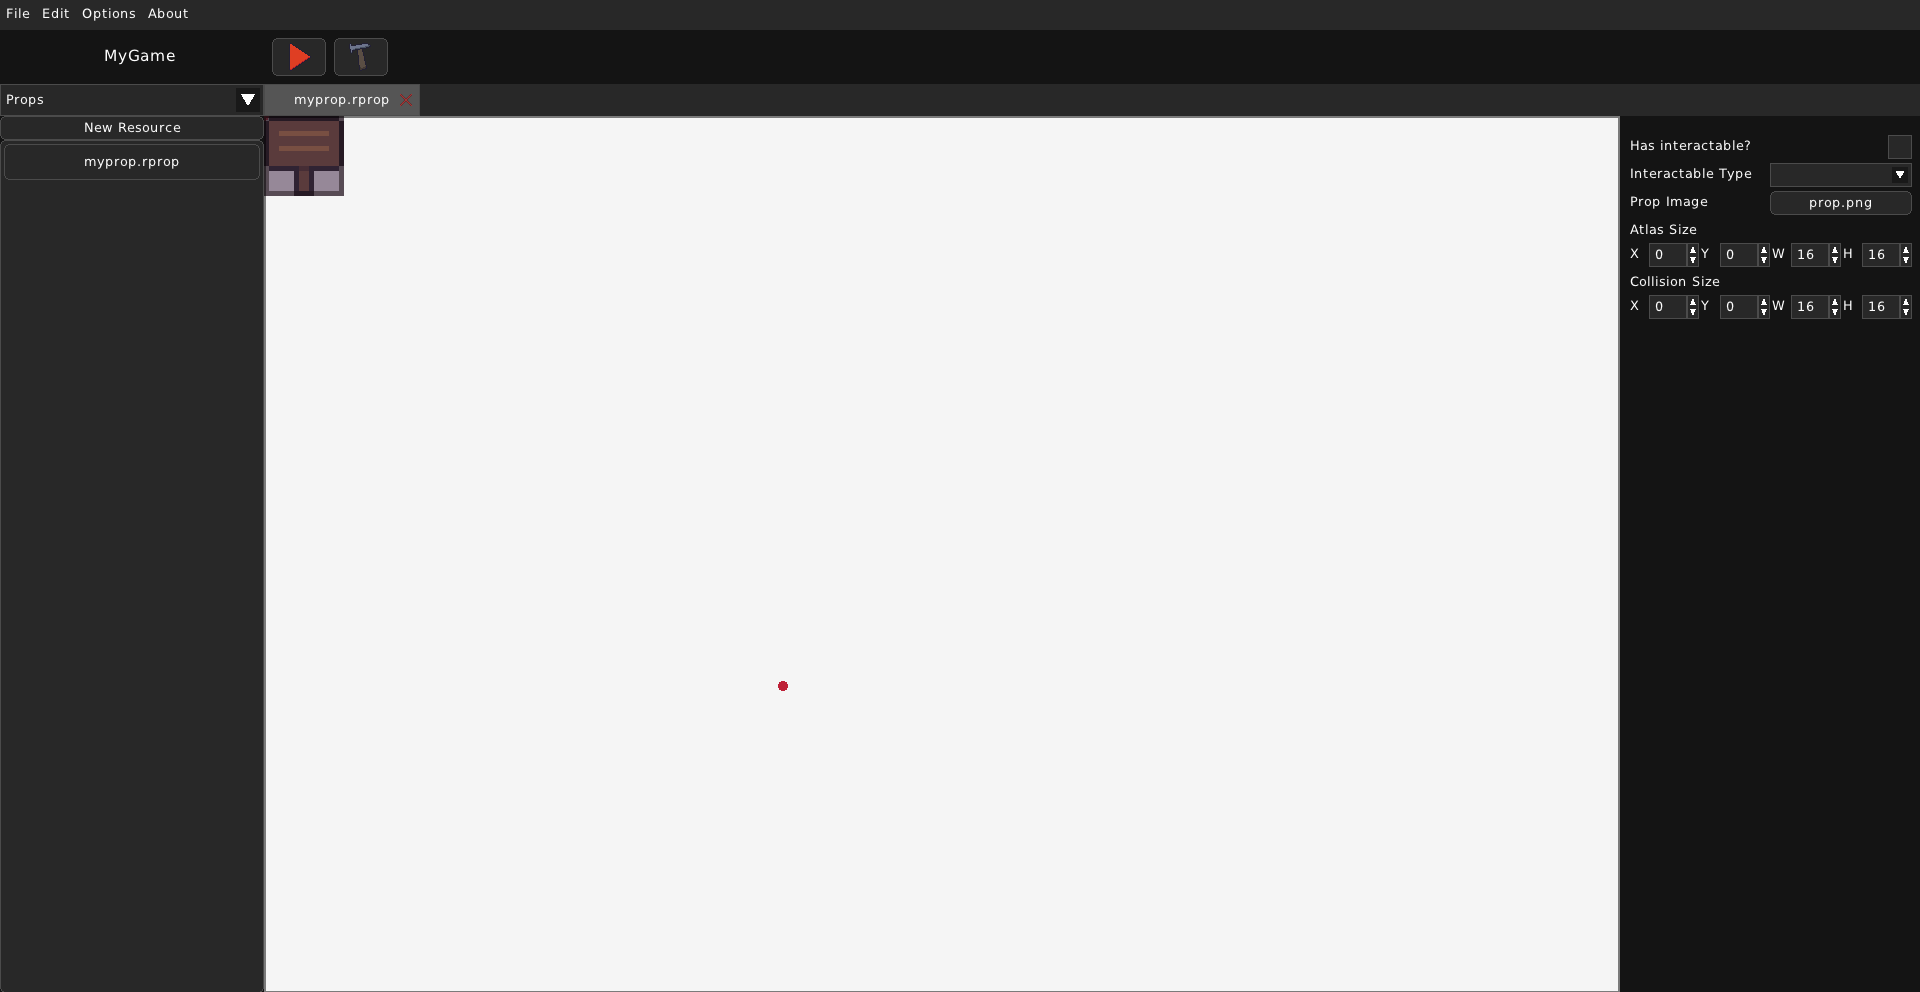
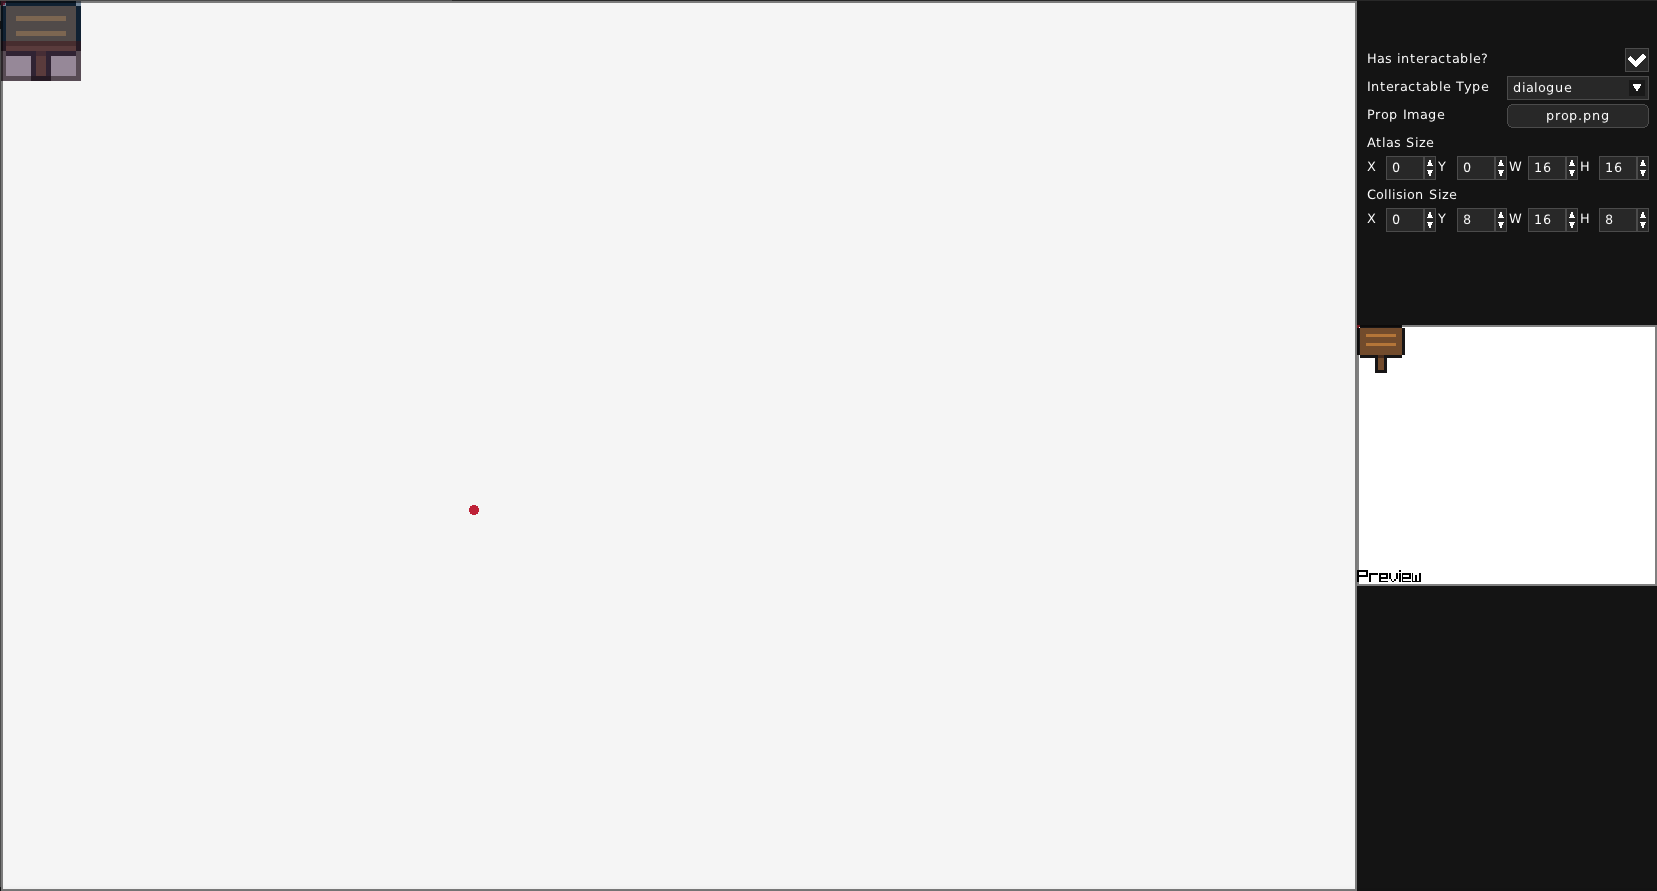
Reflect new changes in documentation + new keys in translation

Changed region(s): [[0.0, 0.0, 1.0, 1.0], [0.9849, 0.0606, 1.0, 0.1212]]

diff --git a/src/editor/childWindows/projectSettingsPanel/project.cpp b/src/editor/childWindows/projectSettingsPanel/project.cpp
@@ -12,7 +12,7 @@
 #include "widgets/propertyFields/textField.hpp"
 
 ProjectSettingsPanelProgram::ProjectSettingsPanelProgram(tgui::TabContainer::Ptr tabContainer)
-	: SettingsPanelBase(tabContainer, "screen.project_options.program._label") {
+	: SettingsPanelBase(tabContainer, "dialog.project_settings.program._label") {
 	const tgui::ScrollablePanel::Ptr scrollPanel = tgui::ScrollablePanel::create();
 	scrollPanel->setSize("100%", "100%");
 	scrollPanel->getRenderer()->setPadding(4);
@@ -24,7 +24,7 @@ ProjectSettingsPanelProgram::ProjectSettingsPanelProgram(tgui::TabContainer::Ptr
 	layout->getRenderer()->setSpaceBetweenWidgets(10.0f);
 
 	titleField = TextField::create();
-	bindTranslation(titleField->label, "dialog.project_settings.title", &tgui::Label::setText);
+	bindTranslation(titleField->label, "dialog.project_settings.program.title", &tgui::Label::setText);
 	titleField->setSize({"100%", 24});
 	titleField->value->onTextChange([](const tgui::String &text) {
 		Project *project = Editor::instance->getProject();
@@ -36,7 +36,7 @@ ProjectSettingsPanelProgram::ProjectSettingsPanelProgram(tgui::TabContainer::Ptr
 	programIcon = FileField::create();
 	programIcon->setSize({"100%", 24});
 	programIcon->pathFilters = {{"Image", {"*.png", "*.jpg"}}};
-	bindTranslation(programIcon->label, "dialog.project_settings.program_icon", &tgui::Label::setText);
+	bindTranslation(programIcon->label, "dialog.project_settings.program.program_icon", &tgui::Label::setText);
 	programIcon->callback = [](const tgui::String &path) {
 		Project *project = Editor::instance->getProject();
 		if (project != nullptr) {
@@ -47,7 +47,7 @@ ProjectSettingsPanelProgram::ProjectSettingsPanelProgram(tgui::TabContainer::Ptr
 
 	windowSizeX = IntField::create();
 	windowSizeX->setSize({"100%", 24});
-	bindTranslation(windowSizeX->label, "dialog.project_settings.window_width", &tgui::Label::setText);
+	bindTranslation(windowSizeX->label, "dialog.project_settings.program.window_width", &tgui::Label::setText);
 	windowSizeX->value->setMinimum(640);
 	windowSizeX->value->setMaximum(1920);
 	windowSizeX->value->onValueChange([](int value) {
@@ -61,7 +61,7 @@ ProjectSettingsPanelProgram::ProjectSettingsPanelProgram(tgui::TabContainer::Ptr
 
 	windowSizeY = IntField::create();
 	windowSizeY->setSize({"100%", 24});
-	bindTranslation(windowSizeY->label, "dialog.project_settings.window_height", &tgui::Label::setText);
+	bindTranslation(windowSizeY->label, "dialog.project_settings.program.window_height", &tgui::Label::setText);
 	windowSizeY->value->setMinimum(480);
 	windowSizeY->value->setMaximum(1080);
 	windowSizeY->value->onValueChange([](int value) {
@@ -75,7 +75,7 @@ ProjectSettingsPanelProgram::ProjectSettingsPanelProgram(tgui::TabContainer::Ptr
 
 	resizeable = BoolField::create();
 	resizeable->setSize({"100%", 24});
-	bindTranslation(resizeable->label, "dialog.project_settings.is_resizable", &tgui::Label::setText);
+	bindTranslation(resizeable->label, "dialog.project_settings.program.is_resizable", &tgui::Label::setText);
 	resizeable->value->onChange([](bool value) {
 		Project *project = Editor::instance->getProject();
 		project->getProgramSettings().windowResizeableFlag = value;

diff --git a/src/editor/childWindows/projectSettingsPanel/game.cpp b/src/editor/childWindows/projectSettingsPanel/game.cpp
@@ -2,6 +2,7 @@
 
 #include "TGUI/String.hpp"
 #include "TGUI/Widgets/GrowVerticalLayout.hpp"
+#include "TGUI/Widgets/Label.hpp"
 #include "TGUI/Widgets/ScrollablePanel.hpp"
 #include "childWindows/settingsPanel/base.hpp"
 #include "project.hpp"
@@ -10,7 +11,7 @@
 #include "widgets/propertyFields/intField.hpp"
 
 ProjectSettingsPanelGame::ProjectSettingsPanelGame(tgui::TabContainer::Ptr tabContainer)
-	: SettingsPanelBase(tabContainer, "screen.project_options.game._label") {
+	: SettingsPanelBase(tabContainer, "dialog.project_settings.game._label") {
 	const tgui::ScrollablePanel::Ptr scrollPanel = tgui::ScrollablePanel::create();
 	scrollPanel->setSize("100%", "100%");
 	scrollPanel->getRenderer()->setPadding(4);
@@ -22,9 +23,9 @@ ProjectSettingsPanelGame::ProjectSettingsPanelGame(tgui::TabContainer::Ptr tabCo
 	layout->getRenderer()->setSpaceBetweenWidgets(10.0f);
 
 	defaultRoom = FileField::create();
+	bindTranslation(defaultRoom->label, "dialog.project_settings.game.default_room", &tgui::Label::setText);
 	defaultRoom->setSize({"100%", 24});
 	defaultRoom->pathFilters = {{"RPG++ Room", {"*.rmap"}}};
-	defaultRoom->label->setText("Default Room");
 	defaultRoom->callback = [](const tgui::String &path) {
 		Project *project = Editor::instance->getProject();
 		if (project != nullptr) {
@@ -34,6 +35,7 @@ ProjectSettingsPanelGame::ProjectSettingsPanelGame(tgui::TabContainer::Ptr tabCo
 	};
 
 	playerActor = FileField::create();
+	bindTranslation(playerActor->label, "dialog.project_settings.game.player_actor", &tgui::Label::setText);
 	playerActor->setSize({"100%", 24});
 	playerActor->pathFilters = {{"RPG++ Actor", {"*.ractor"}}};
 	playerActor->label->setText("Player Actor");
@@ -46,7 +48,9 @@ ProjectSettingsPanelGame::ProjectSettingsPanelGame(tgui::TabContainer::Ptr tabCo
 	};
 
 	tileSize = IntField::create();
+	bindTranslation(tileSize->label, "dialog.project_settings.game.tile_size", &tgui::Label::setText);
 	tileSize->setSize({"100%", 24});
+	tileSize->label->setText("Tile Size");
 	tileSize->value->setMinimum(16);
 	tileSize->value->setMaximum(64);
 	tileSize->value->onValueChange([](int value) {

diff --git a/docs/guide/resourcetypes/interactable.rst b/docs/guide/resourcetypes/interactable.rst
@@ -1,0 +1,44 @@
+Interactable
+============
+
+=======================
+What is an Interactable
+=======================
+
+An Interactable is an object that the player can interact with. It has an attached script that defines its behaviour. It can placed on its own or exist within a Prop or an Actor.
+
+Example of an Interactable file:
+
+.. code:: json
+
+    {
+        "name":"myinter",
+        "onTouch":false,
+        "props":{
+            "newint":0,
+            "x":0
+        },
+        "script":"scripts/test.lua"
+    }
+
+====================================
+Creating and editing an Interactable
+====================================
+
+To create an Interactable, you just need to give it a name. 
+
+.. image:: ../../images/rpgpp-createinteractable.png
+    :width: 40%
+
+Then you can edit its properties.
+
+.. image:: ../../images/rpgpp-interactableview.png
+    :width: 40%
+
+* **Display Name** - Sets a friendly name that will show up only in the editor.
+
+* **Script** - Sets a Lua script that will define the Interactable's behaviour. THe script must have an interact() function.
+
+* **On Touch?** - Whether this Interactable will trigger when the player collides with the interactable.
+
+On top of that, you can add or remove your own properties for the Interactable.

diff --git a/docs/guide/projectsettings.rst b/docs/guide/projectsettings.rst
@@ -1,0 +1,33 @@
+Project Settings
+================
+
+In this window you can change or view settings that will impact the game's window or the gameplay.
+
+.. image:: ../images/rpgpp-projectsettings.png
+    :width: 40%
+
+There are two categories in Project Settings:
+
+* **Program**:
+
+    This category changes how the program's window behaves.
+
+    * **Title** - The Window's title.
+
+    * **Program Icon** - The icon of the window.
+
+    * **Window Width** - Width of the window.
+
+    * **Window Height** - Height of the window.
+
+    * **Is Window Resizeable** - Whether the window will be resizeable.
+
+* **Game**:
+
+    This category changes the gameplay of the game.
+
+    * **Default Room** - The room in which the player will first spawn.
+
+    * **Player Actor** - The Actor file which will be used for the Player's appearance.
+
+    * **Tile Size** - The tile size in maps.

diff --git a/docs/guide/editorlayout.rst b/docs/guide/editorlayout.rst
@@ -45,6 +45,11 @@ Here you can see the title of the opened project, as well as a Playtest button a
 
     * **Build** - Export the project. This will result in a .bin file and an executable file in the project's root directory.
 
+    .. image:: ../images/rpgpp-projectsettingsbutton.png
+        :width: 40%
+
+    * **Project Settings** - Open the Project Settings window, where you can change settings about your project.
+
 * `(3)` - **Resources List**
 
 Here you can see the resources of the project. The dropdown lets you choose which type of resource do you want to be listed. You can click on any file listed here. The "New Resource" button creates a new resource of the type that is currently chosen in the dropdown.

diff --git a/docs/guide/resourcetypes/prop.rst b/docs/guide/resourcetypes/prop.rst
@@ -52,3 +52,5 @@ You can also change the image for this Prop.
 Atlas Rect refers to the portion of the Prop Image, that will be shown.
 Collision Rect refers to the position and size of the collision, relative to the top left corner of the Prop.
 Both properties have X and Y for position and W and H for size.
+
+You can also see a preview of your Prop under the properties. It will show how the Prop will actually look like in-game.

diff --git a/docs/guide.rst b/docs/guide.rst
@@ -10,4 +10,5 @@ Learn how to install and use RPG++ to make a simple RPG game!
     guide/mainconcepts
     guide/editorlayout
     guide/editoroptions
+    guide/projectsettings
     guide/typesindex

diff --git a/docs/guide/typesindex.rst b/docs/guide/typesindex.rst
@@ -7,3 +7,4 @@ Resource Types
     resourcetypes/actor
     resourcetypes/dialogue
     resourcetypes/prop
+    resourcetypes/interactable
